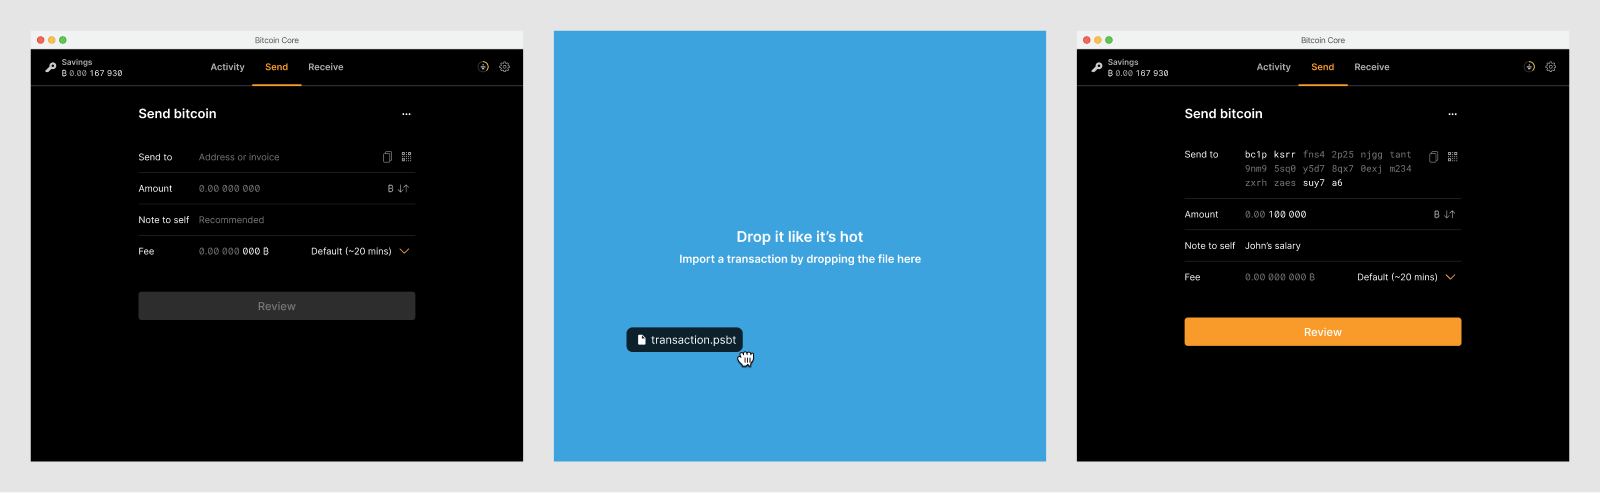
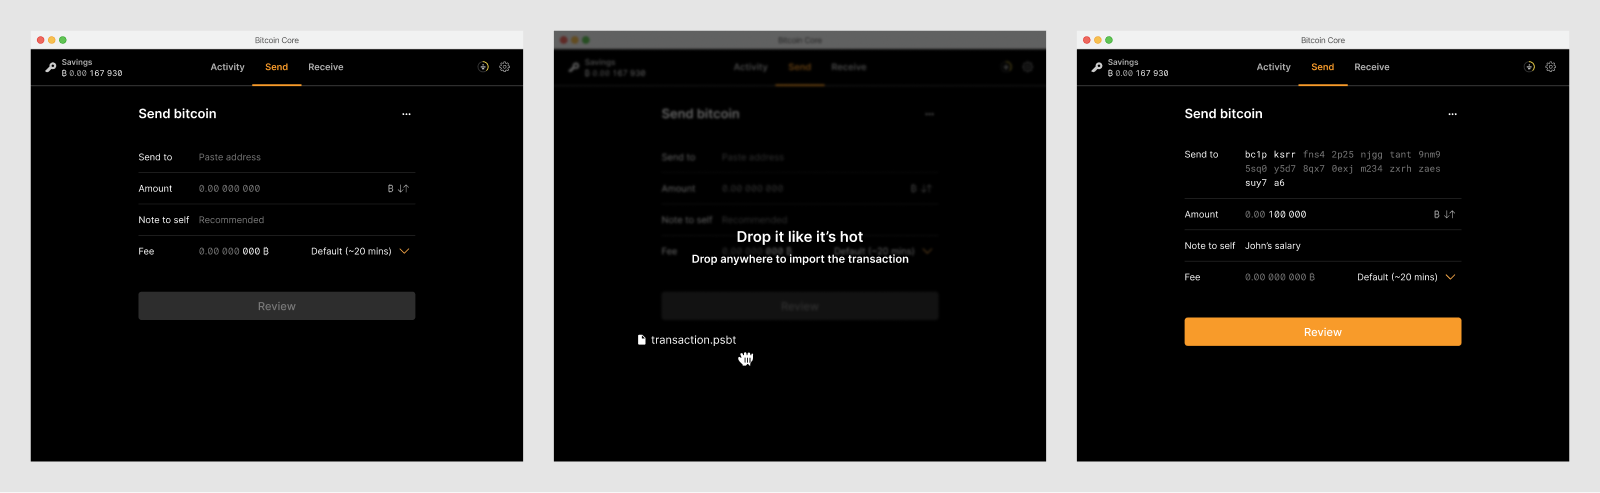
Removed transaction sent modal & smaller stuff
- Removed transaction sent modal
- Updated review screens (removed header text)
- Updated drag&drop styling

Changed region(s): [[0.3438, 0.0609, 0.6562, 0.9432], [0.7812, 0.3043, 0.9062, 0.3955], [0.125, 0.3043, 0.1875, 0.3347]]

diff --git a/pages/send/basic-send-flow.md b/pages/send/basic-send-flow.md
@@ -118,19 +118,6 @@ Before the transaction is broadcast, the user has another chance to review it.
 	height = 551
 %}
 
-## Transaction confirmation
-
-After the transaction has been broadcast to the network, a success message is displayed. 
-
-{% include picture.html
-	image = "/assets/images/send/confirmation-message.png"
-	retina = "/assets/images/send/confirmation-message@2x.png"
-	big = "/assets/images/send/confirmation-message-big.png"
-	alt-text = "Confirmation screen with a success message."
-	width = 800
-	height = 551
-%}
-
 #### Error handling
 
 There are scenarios in which the broadcasting of a transaction fails.
